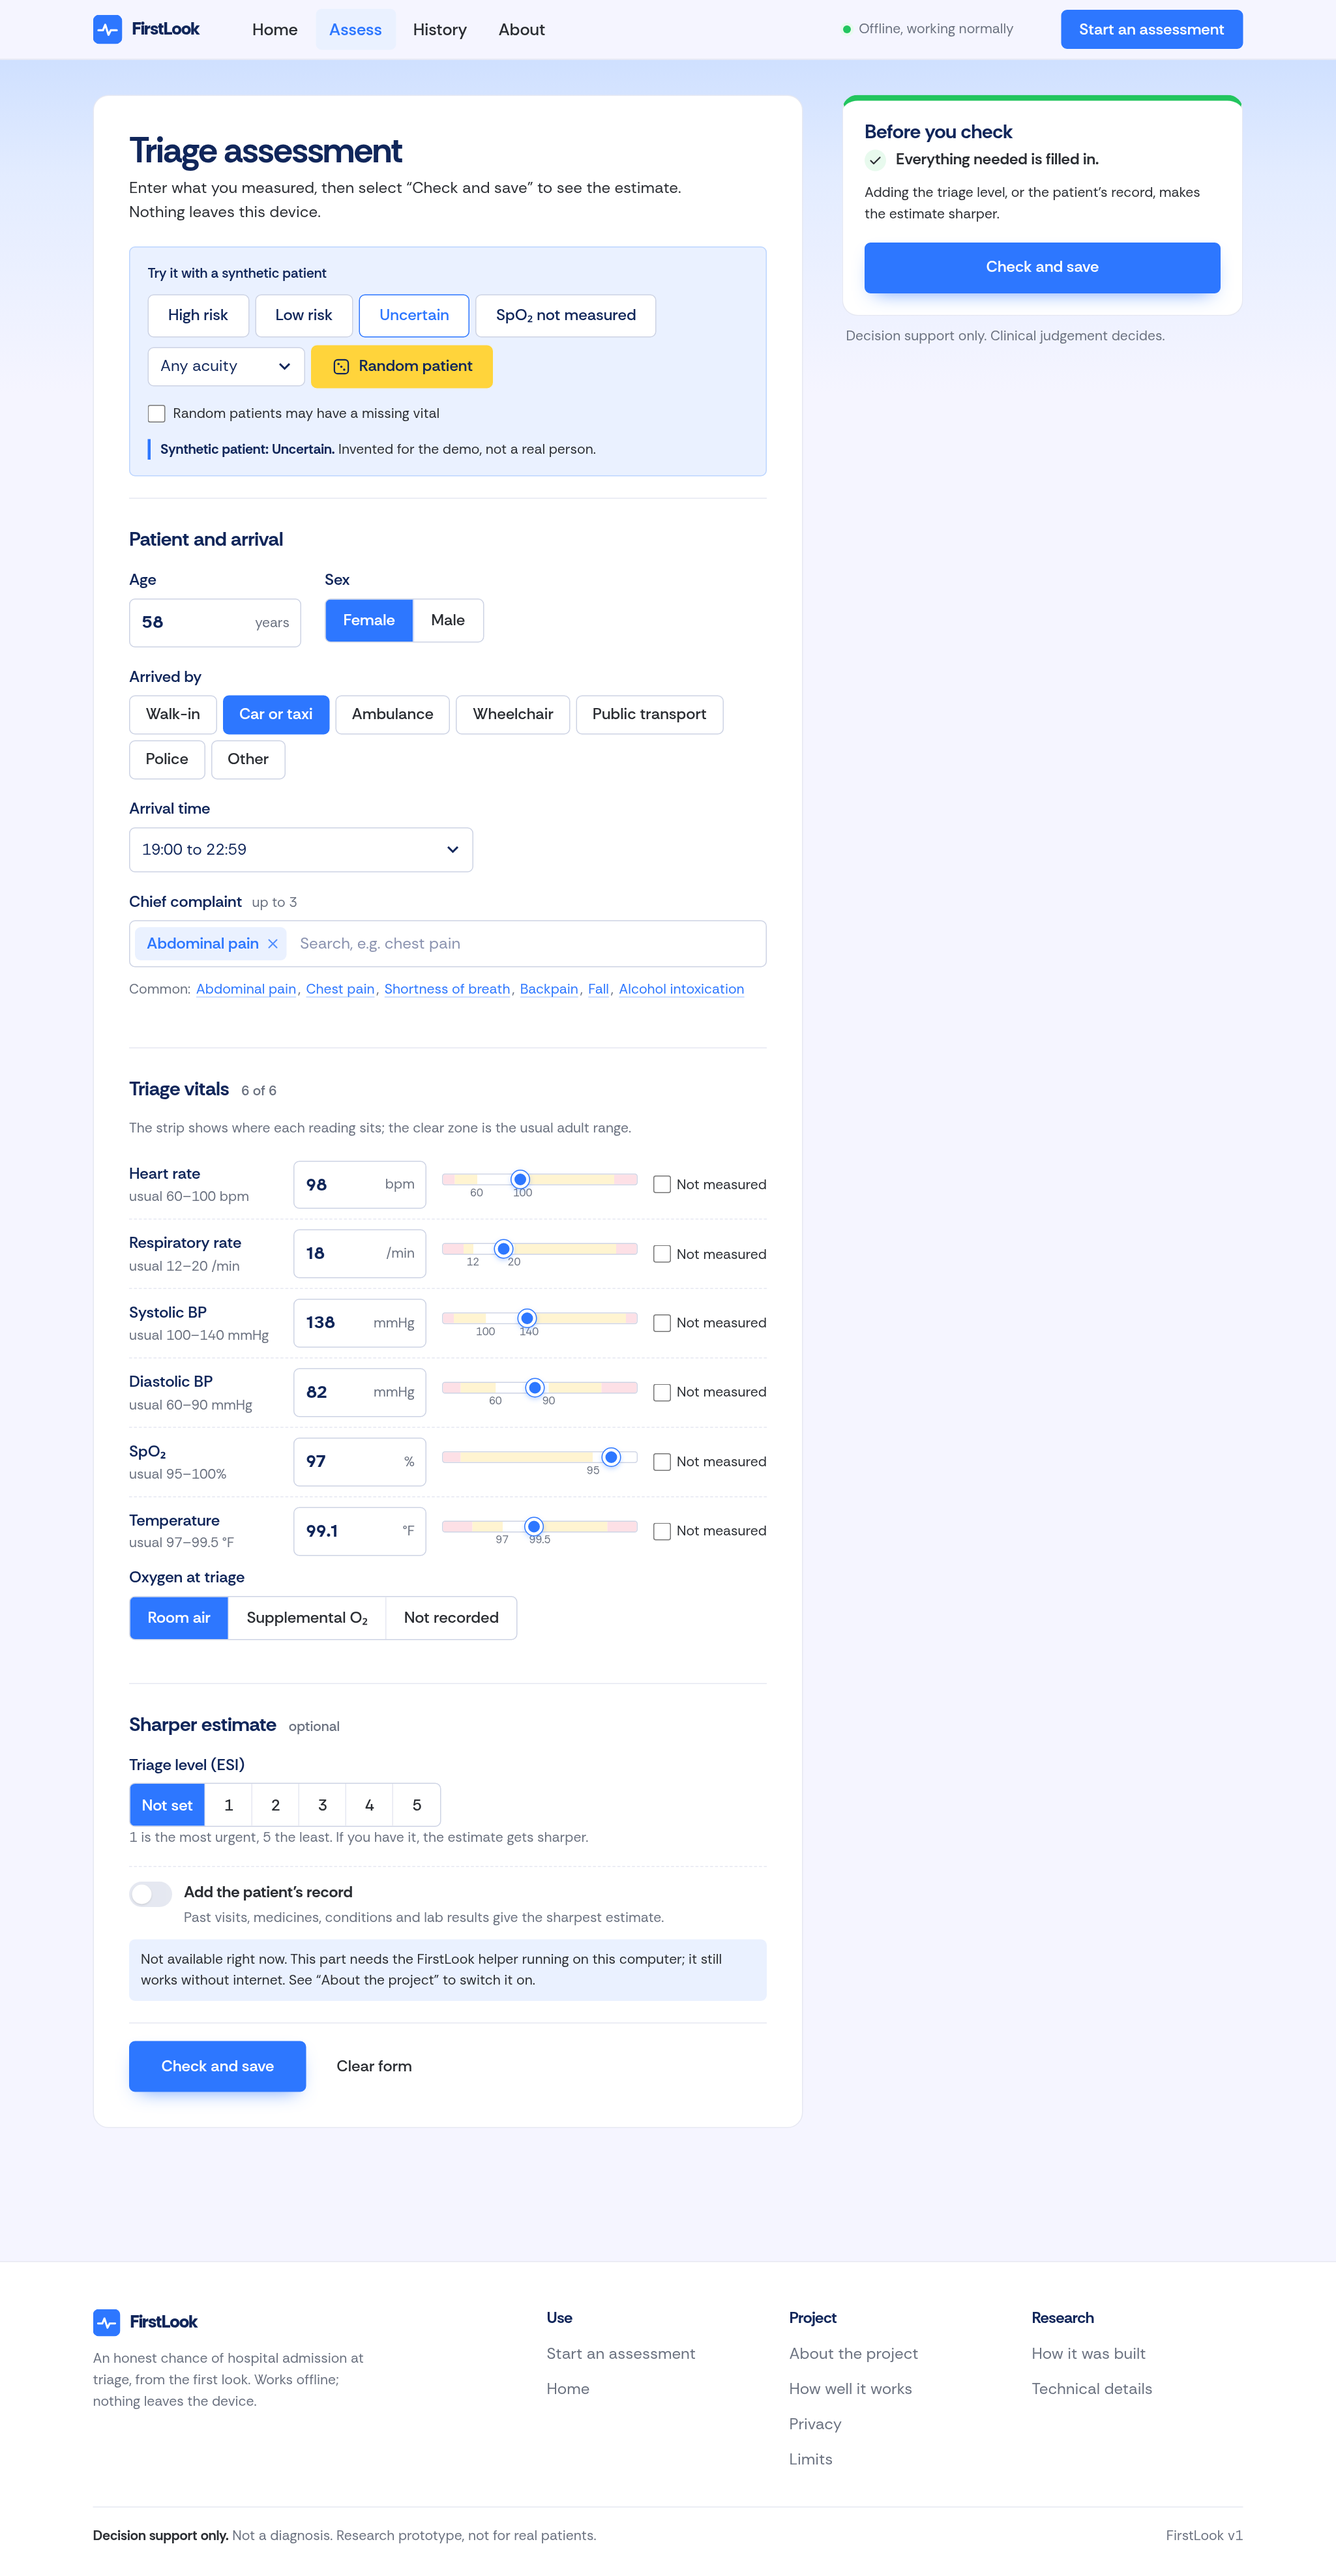
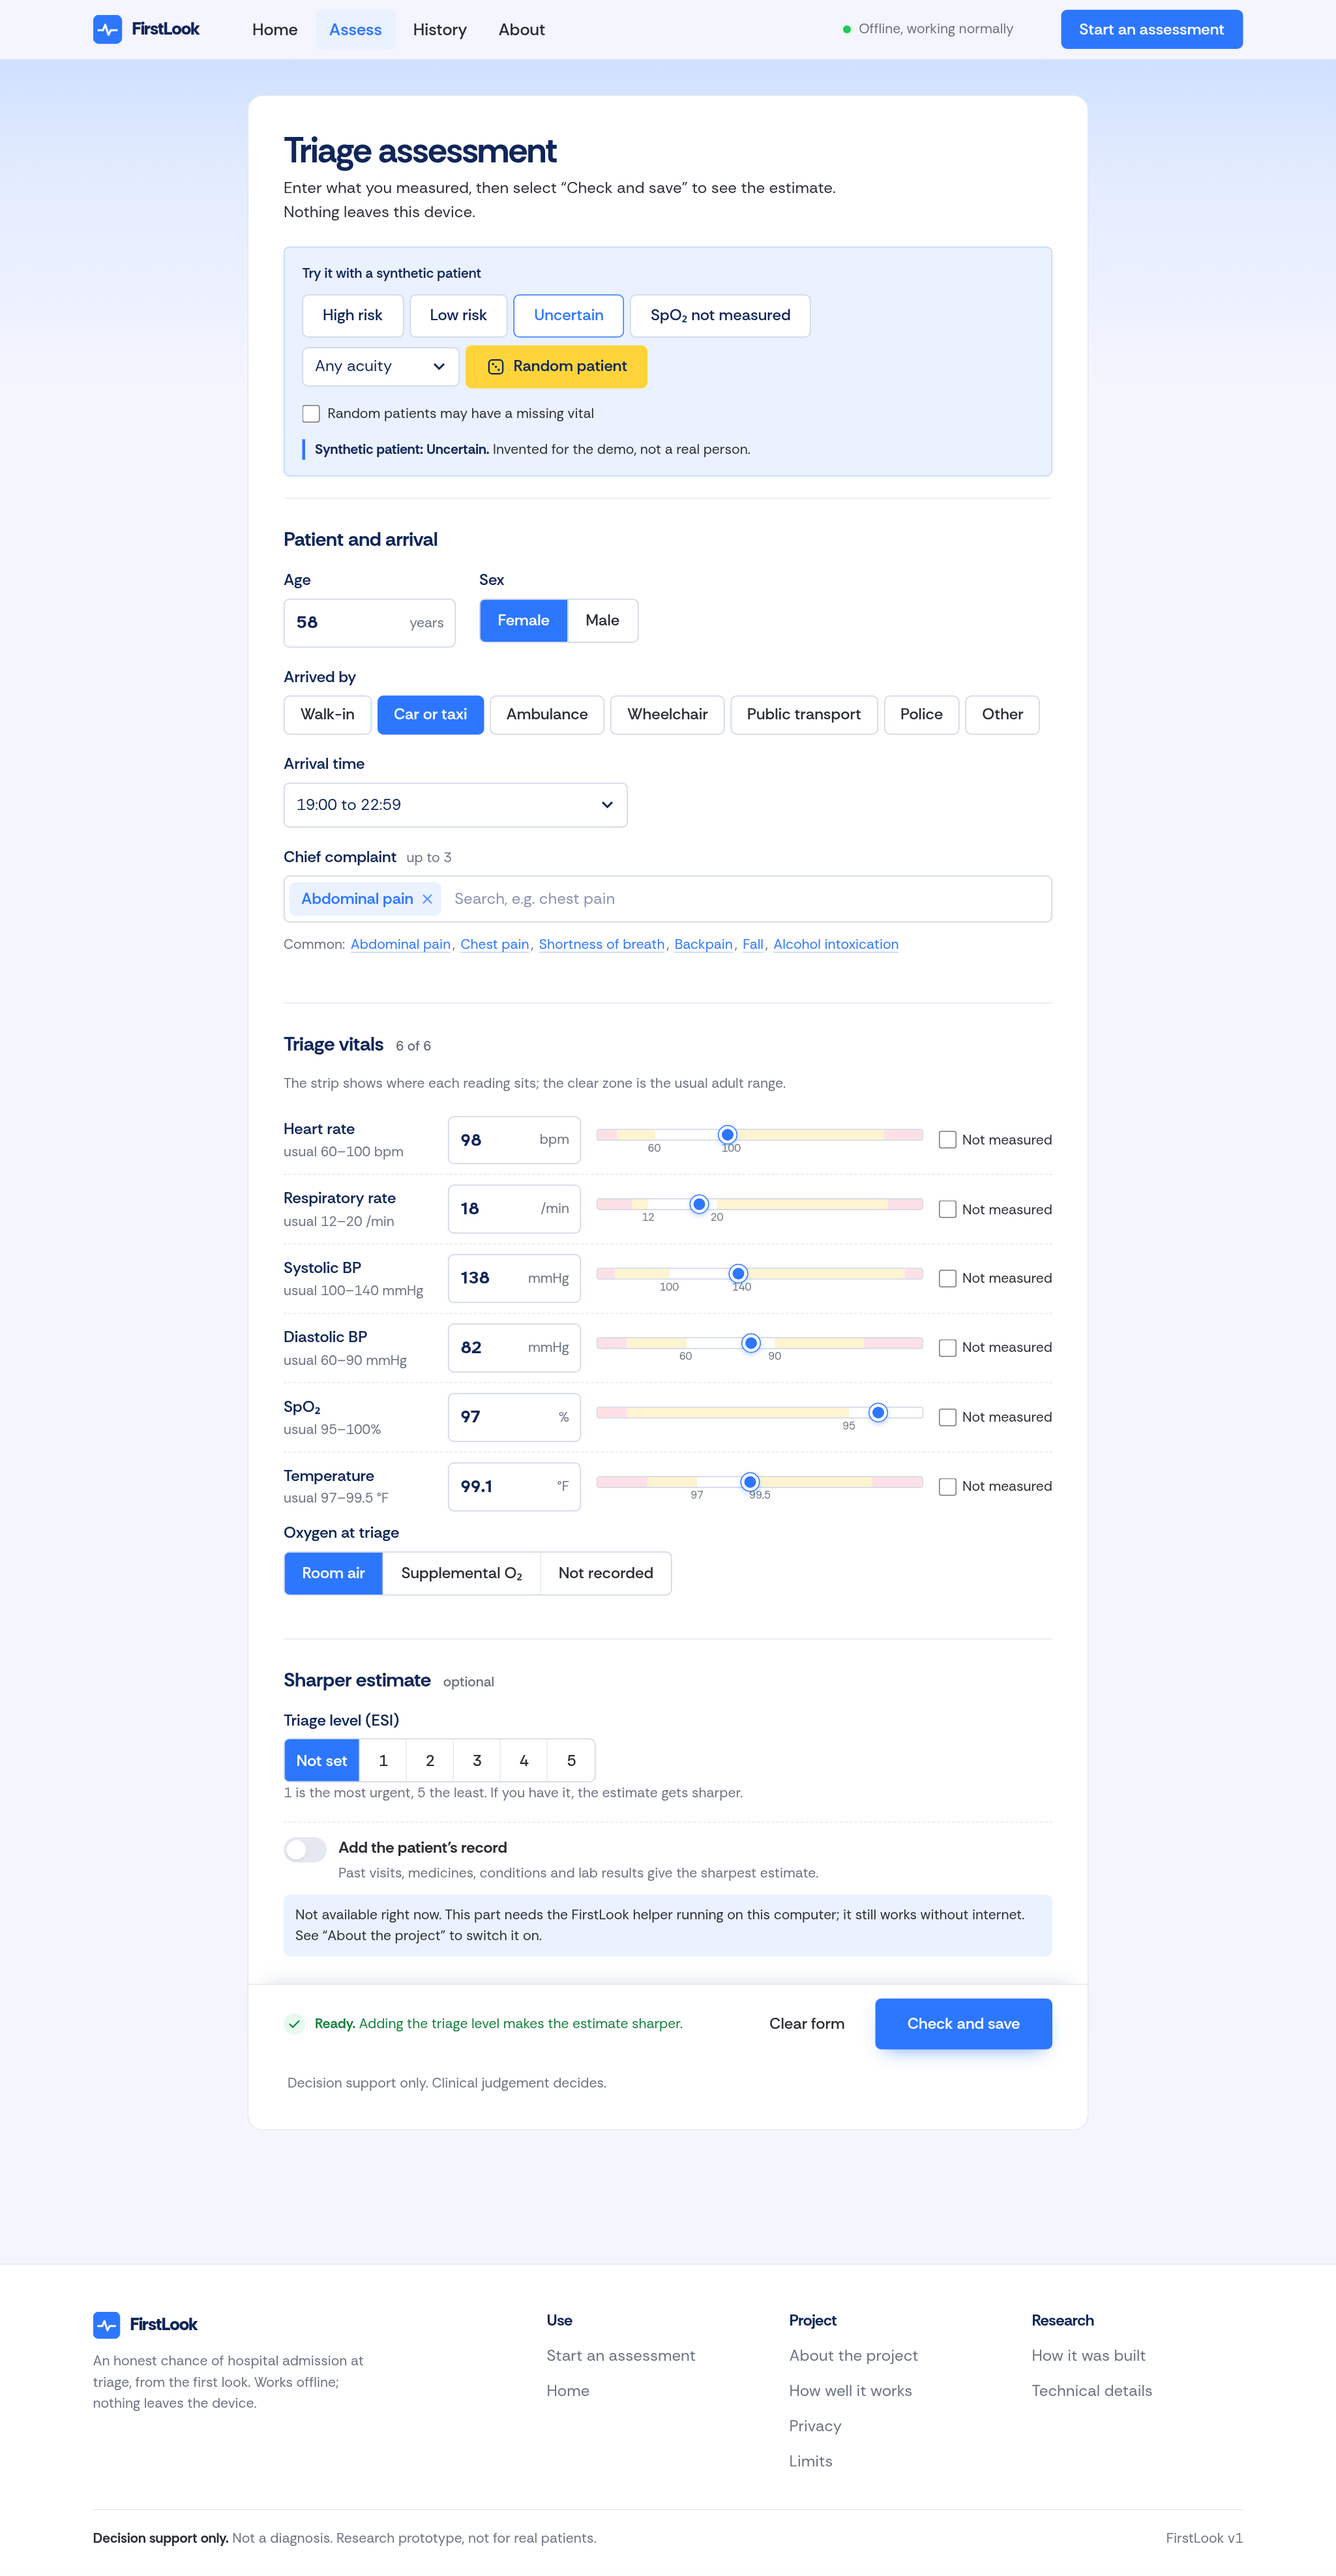
Assess page: drop the side panel, single centred form with a sticky action bar
- Readiness checklist replaced by one line in a sticky bar at the bottom
  ("Still needed: …" / "Check this reading: …" / "Ready"), each field links to
  its input, next to Clear form and Check and save
- Undo toast lifted clear of the bar; tests, screenshot script and app
  figures updated

Claude-Session: https://claude.ai/code/session_01MqjK4GWpR6MpcbTz9AouDq

diff --git a/frontend/css/app.css b/frontend/css/app.css
@@ -559,15 +559,19 @@ td .sw { display: inline-block; width: 10px; height: 10px; border-radius: 2px; m
 @media (prefers-reduced-motion: reduce) { *, *::before, *::after { transition: none !important; animation: none !important; } }
 @media print { .top, .quick, .form-foot, .peek, .toast, .foot { display: none !important; } .workspace { grid-template-columns: 1fr 1fr; } .panel { position: static; } }
 
-/* ---------------------------------------------------------------- assess: readiness checklist */
-.ready { background: var(--sheet); border: 1px solid var(--rule); border-top: 6px solid var(--brand-line); border-radius: var(--r); padding: 20px 22px 22px; transition: border-color .3s; }
-.ready[data-state=ready] { border-top-color: var(--low-fill); }
-.ready[data-state=fix] { border-top-color: var(--high); }
-.ready h2 { font-size: var(--step-1); letter-spacing: -.01em; margin-bottom: 6px; }
-.ok-line { display: flex; align-items: center; gap: 10px; font-weight: 650; color: var(--low); margin-top: 4px; }
-.ok-line .ic { width: 22px; height: 22px; flex: none; padding: 3px; border-radius: 50%; background: var(--low-bg); }
-.ready .hint { margin-top: 10px; }
-.btn.block { width: 100%; justify-content: center; margin-top: 18px; }
+/* ---------------------------------------------------------------- assess: one centred column, sticky action bar */
+.workspace.solo { grid-template-columns: minmax(0, 860px); justify-content: center; }
+.workspace.solo .form-foot { position: sticky; bottom: 0; z-index: 5; gap: 8px; margin: 24px calc(-1 * clamp(18px, 3vw, 36px)) 0; padding: 14px clamp(18px, 3vw, 36px);
+  background: var(--sheet); border-top: 1px solid var(--rule); box-shadow: 0 -12px 24px -18px rgba(16, 38, 90, .25); }
+.actionbar { display: flex; justify-content: space-between; align-items: center; gap: 12px 20px; flex-wrap: wrap; }
+.needs { display: flex; align-items: center; gap: 10px; flex: 1 1 320px; margin: 0; font-size: var(--step--1); color: var(--ink-2); }
+.needs b { color: var(--ink); font-weight: 650; }
+.needs .link { font-size: inherit; min-height: 24px; }
+.needs[data-state=fix] b { color: var(--high); }
+.needs[data-state=ready] { color: var(--low); }
+.needs[data-state=ready] b { color: var(--low); }
+.needs .ic { width: 22px; height: 22px; flex: none; padding: 3px; border-radius: 50%; background: var(--low-bg); color: var(--low); }
+.actionbar .foot-row { flex: none; }
 
 /* ---------------------------------------------------------------- result page */
 .res-head { display: flex; justify-content: space-between; align-items: flex-end; gap: 16px 24px; flex-wrap: wrap; margin-bottom: clamp(20px, 3vw, 32px); }
@@ -594,7 +598,6 @@ td .sw { display: inline-block; width: 10px; height: 10px; border-radius: 2px; m
 .result .disc { margin-top: 24px; }
 @media (max-width: 1020px) {
   .res-grid { grid-template-columns: minmax(0, 1fr); }
-  #go2 { display: none; }
 }
 @media (max-width: 640px) {
   .res-actions, .res-actions .btn { width: 100%; }
@@ -602,3 +605,6 @@ td .sw { display: inline-block; width: 10px; height: 10px; border-radius: 2px; m
   .entered dl { grid-template-columns: 1fr; }
 }
 @media print { .res-actions { display: none !important; } .res-grid { grid-template-columns: 1fr 1fr; } }
+/* keep the undo toast clear of the sticky action bar on the form */
+body:has(#assess:not([hidden])) .toast { bottom: 104px; }
+@media (max-width: 640px) { body:has(#assess:not([hidden])) .toast { bottom: 150px; } }

diff --git a/frontend/js/app.js b/frontend/js/app.js
@@ -452,22 +452,21 @@ function update(now) {
 /* ---------------------------------------------------------------- checklist (assess) and estimate (result) */
 function setState(s) {
   const ready = s === "result" || s === "busy";
-  $("readycard").dataset.state = ready ? "ready" : s; $("tag").dataset.state = s;
-  $("st-empty").hidden = s !== "empty"; $("st-fix").hidden = s !== "fix"; $("st-ready").hidden = !ready;
-  $("readyhint").hidden = !!(radio("esi") && $("usehist").checked);
+  $("needs").dataset.state = ready ? "ready" : s; $("tag").dataset.state = s;
+  if (ready) $("needs").innerHTML = `<svg class="ic" aria-hidden="true"><use href="#i-check"/></svg><span><b>Ready.</b> ${radio("esi") ? "" : "Adding the triage level makes the estimate sharper."}</span>`;
 }
 async function panel(f, items) {
   const errs = items.filter((d) => d.level === "error"), miss = items.filter((d) => d.level === "missing");
   const id = ++reqId;
   if (errs.length) {
     last = null; setState("fix"); delete $("tag").dataset.band;
-    $("fixlist").innerHTML = errs.map((d) => `<li><button type="button" class="err" data-f="${d.field}">${d.msg.startsWith(fieldName(d.field)) ? "" : esc(fieldName(d.field)) + ": "}${esc(d.msg)}</button></li>`).join("");
+    const fields = [...new Set(errs.map((d) => d.field))];
+    $("needs").innerHTML = `<span><b>Check ${fields.length === 1 ? "this reading" : "these readings"}:</b> ${fields.map((k) => `<button type="button" class="link" data-f="${k}">${esc(fieldName(k))}</button>`).join(", ")}</span>`;
   } else if (miss.length) {
     last = null; setState("empty"); delete $("tag").dataset.band;
     const need = new Set(miss.map((d) => d.field));
-    const all = ["age", "gender", "complaints", ...VITAL.map((v) => v[0])];
-    $("todo").innerHTML = all.map((k) => need.has(k) ? `<li><button type="button" data-f="${k}">${esc(fieldName(k))}</button></li>`
-      : `<li class="done">${esc(fieldName(k))}</li>`).join("");
+    const all = ["age", "gender", "complaints", ...VITAL.map((v) => v[0])].filter((k) => need.has(k));
+    $("needs").innerHTML = `<span><b>Still needed:</b> ${all.map((k) => `<button type="button" class="link" data-f="${k}">${esc(fieldName(k))}</button>`).join(", ")}</span>`;
   } else {
     if ($("usehist").checked && SERVER) {
       if (last) setState("busy");
@@ -475,7 +474,7 @@ async function panel(f, items) {
       catch (e) {
         if (id !== reqId) return;
         last = null; setState("fix");
-        $("fixlist").innerHTML = `<li class="err">The patient record couldn’t be used just now (${esc(e.message)}). Switch “Add the patient’s record” off to get an estimate without it.</li>`;
+        $("needs").innerHTML = `<span><b>The patient record couldn’t be used just now</b> (${esc(e.message)}). Switch “Add the patient’s record” off to get an estimate without it.</span>`;
         route(); return;
       }
     } else {
@@ -486,7 +485,7 @@ async function panel(f, items) {
   }
   route();
 }
-for (const id of ["todo", "fixlist"]) document.getElementById(id).addEventListener("click", (e) => { const b = e.target.closest("[data-f]"); if (b) focusField(b.dataset.f); });
+$("needs").addEventListener("click", (e) => { const b = e.target.closest("[data-f]"); if (b) focusField(b.dataset.f); });
 
 async function predictServer(f) {
   const t0 = performance.now();

diff --git a/frontend/index.html b/frontend/index.html
@@ -155,7 +155,7 @@
 
 <!-- ================================================================ ASSESS -->
 <section id="assess" class="wrap" aria-labelledby="t-assess" hidden>
-  <div class="workspace">
+  <div class="workspace solo">
   <form id="pform" class="sheet" novalidate autocomplete="off">
     <div class="sheet-head">
       <h1 id="t-assess">Triage assessment</h1>
@@ -230,32 +230,17 @@
 
     <div class="form-foot">
       <p class="errsum" id="errsum" role="alert" hidden></p>
-      <div class="foot-row">
-        <button type="submit" class="btn primary" id="go">Check and save</button>
-        <button type="button" class="btn quiet" id="clear">Clear form</button>
+      <div class="actionbar" id="actionbar">
+        <p class="needs" id="needs" data-state="empty"></p>
+        <div class="foot-row">
+          <button type="button" class="btn quiet" id="clear">Clear form</button>
+          <button type="submit" class="btn primary" id="go">Check and save</button>
+        </div>
       </div>
-    </div>
-  </form>
-
-  <aside class="panel" id="ready" aria-labelledby="t-ready">
-    <div class="card ready" id="readycard" data-state="empty">
-      <h2 id="t-ready">Before you check</h2>
-      <div id="st-empty" class="st">
-        <p>FirstLook needs these. Select one to jump to it.</p>
-        <ul class="todo" id="todo"></ul>
-      </div>
-      <div id="st-fix" class="st" hidden>
-        <p>Check these readings first.</p>
-        <ul class="todo" id="fixlist"></ul>
-      </div>
-      <div id="st-ready" class="st" hidden>
-        <p class="ok-line"><svg class="ic" aria-hidden="true"><use href="#i-check"/></svg>Everything needed is filled in.</p>
-        <p class="hint" id="readyhint">Adding the triage level, or the patient’s record, makes the estimate sharper.</p>
-      </div>
-      <button type="submit" form="pform" class="btn primary block" id="go2">Check and save</button>
     </div>
     <p class="disc">Decision support only. Clinical judgement decides.</p>
-  </aside>
+  </form>
+
   </div>
 </section>
 

diff --git a/frontend/sw.js b/frontend/sw.js
@@ -1,6 +1,6 @@
 /* FirstLook service worker: cache-first for the app shell, everything local. Bump CACHE when assets change.
    api/ requests (the optional local backend) always go to the network and are never cached. */
-const CACHE = "firstlook-v19";
+const CACHE = "firstlook-v22";
 const ASSETS = ["./", "index.html", "css/app.css", "js/model.js", "js/charts.js", "js/app.js", "data/models.json", "data/dashboard.json",
   "manifest.webmanifest", "icon.svg",
   "fonts/atkinson-next-latin.woff2", "fonts/atkinson-next-latin-ext.woff2",

diff --git a/tests/test_pwa_ux.py b/tests/test_pwa_ux.py
@@ -77,7 +77,7 @@ def page(browser, base_url):
 
 def example(pg, name):
     pg.locator("#examples button", has_text=name).click()
-    pg.wait_for_selector("#st-ready:not([hidden])")
+    pg.wait_for_selector("#needs[data-state=ready]")
 
 
 def show(pg):
@@ -104,8 +104,8 @@ def test_empty_submit_shows_errors_next_to_fields_and_focuses_first(page):
 
 def test_assess_and_result_are_separate_pages(page):
     example(page, "Uncertain")
-    assert page.is_hidden("#result") and page.is_visible("#go2")  # the form page shows a checklist, not the estimate
-    page.click("#go2"); page.wait_for_selector("#result:not([hidden])")
+    assert page.is_hidden("#result") and page.is_visible("#go")  # the form page shows a checklist, not the estimate
+    page.click("#go"); page.wait_for_selector("#result:not([hidden])")
     assert page.url.endswith("#/result") and page.is_hidden("#assess")
     assert pct(page) == 44 and page.inner_text("#conftitle").startswith("Unsure")
     assert "44% chance of admission" in page.title()
@@ -134,7 +134,7 @@ def test_next_patient_clears_with_undo(page):
 
 def test_refresh_keeps_form_and_old_links_still_work(page, base_url):
     example(page, "High risk")
-    page.reload(); page.wait_for_selector("#st-ready:not([hidden])")
+    page.reload(); page.wait_for_selector("#needs[data-state=ready]")
     assert page.input_value("#age") == "82" and page.locator("#ccchips button").count() == 1
     page.goto(base_url + "#/patient"); page.wait_for_selector("#assess:not([hidden])")
     page.goto(base_url + "#/explain"); page.wait_for_selector("#result:not([hidden])")
@@ -145,7 +145,7 @@ def test_refresh_keeps_form_and_old_links_still_work(page, base_url):
 def test_clear_offers_undo(page):
     example(page, "Low risk")
     page.click("#clear")
-    assert page.input_value("#age") == "" and page.is_visible("#toast") and page.is_visible("#st-empty")
+    assert page.input_value("#age") == "" and page.is_visible("#toast") and page.get_attribute("#needs", "data-state") == "empty"
     page.click("#undo")
     assert page.input_value("#age") == "24" and not page.is_visible("#toast")
 
@@ -170,7 +170,7 @@ def test_complaint_combobox_keyboard(page):
 
 def test_random_patient_is_marked_synthetic(page):
     page.select_option("#acuity", "high"); page.click("#random")
-    page.wait_for_selector("#st-ready:not([hidden])")
+    page.wait_for_selector("#needs[data-state=ready]")
     assert page.is_visible("#exnote") and "not a real person" in page.inner_text("#exnote")
 
 

diff --git a/scripts/screenshot_pwa.py b/scripts/screenshot_pwa.py
@@ -56,7 +56,7 @@ def main():
             page.wait_for_function("document.getElementById('hsave').textContent === 'Saved'")
 
         assess(); shot("02_assess_empty")
-        page.locator("#examples button", has_text="Uncertain").click(); page.wait_for_selector("#st-ready:not([hidden])")
+        page.locator("#examples button", has_text="Uncertain").click(); page.wait_for_selector("#needs[data-state=ready]")
         shot("03_assess_ready")
         check_and_save()
         page.fill("#hnote", "Bay 3"); page.click("#hsave")
@@ -65,11 +65,11 @@ def main():
         res = {"uncertain_pct": page.inner_text("#pct"), "uncertain_confidence": page.inner_text("#conftitle")}
         shot("04_result_uncertain")
 
-        assess(); page.select_option("#acuity", "high"); page.click("#random"); page.wait_for_selector("#st-ready:not([hidden])")
+        assess(); page.select_option("#acuity", "high"); page.click("#random"); page.wait_for_selector("#needs[data-state=ready]")
         check_and_save(); res["random_high_pct"] = page.inner_text("#pct")
         shot("05_result_random_high")
 
-        assess(); page.locator("#examples button", has_text="Low risk").click(); page.wait_for_selector("#st-ready:not([hidden])")
+        assess(); page.locator("#examples button", has_text="Low risk").click(); page.wait_for_selector("#needs[data-state=ready]")
         check_and_save()
         page.click("nav a[data-p=history]"); page.wait_for_selector("#hlist .hitem")
         res["history_entries"] = page.locator("#hlist .hitem").count()
